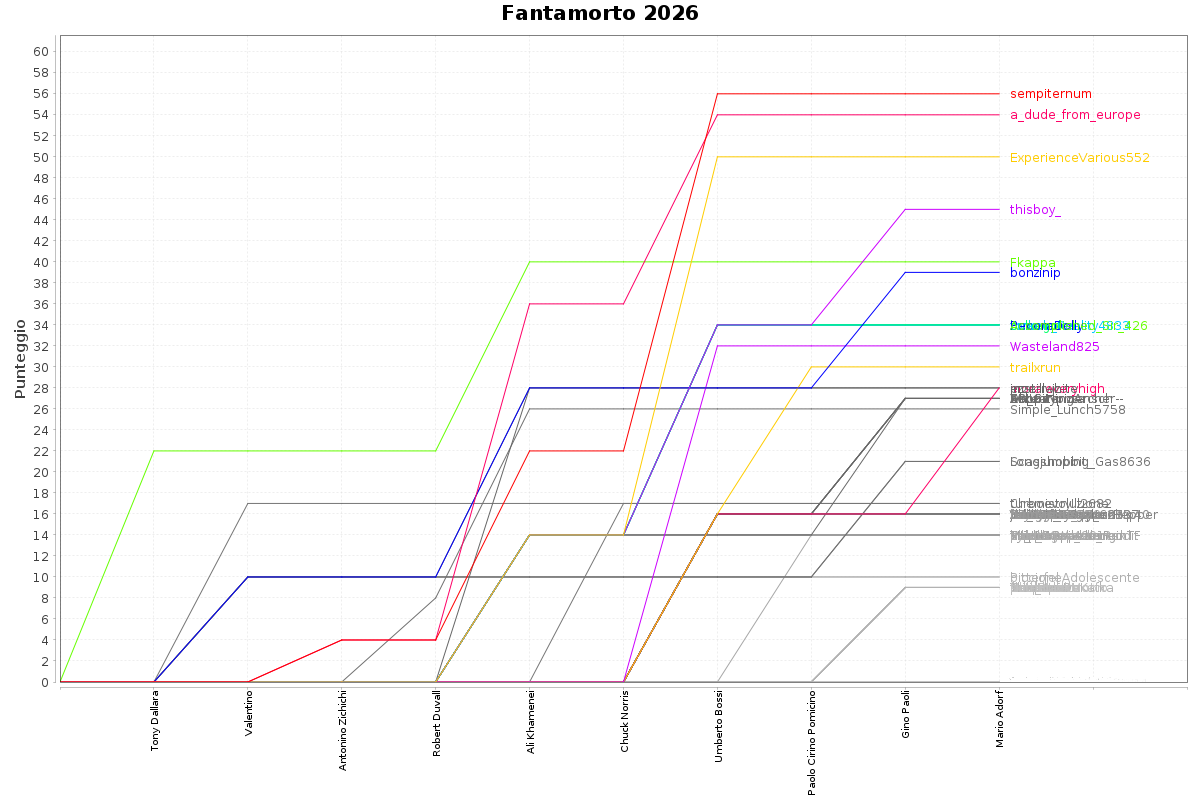
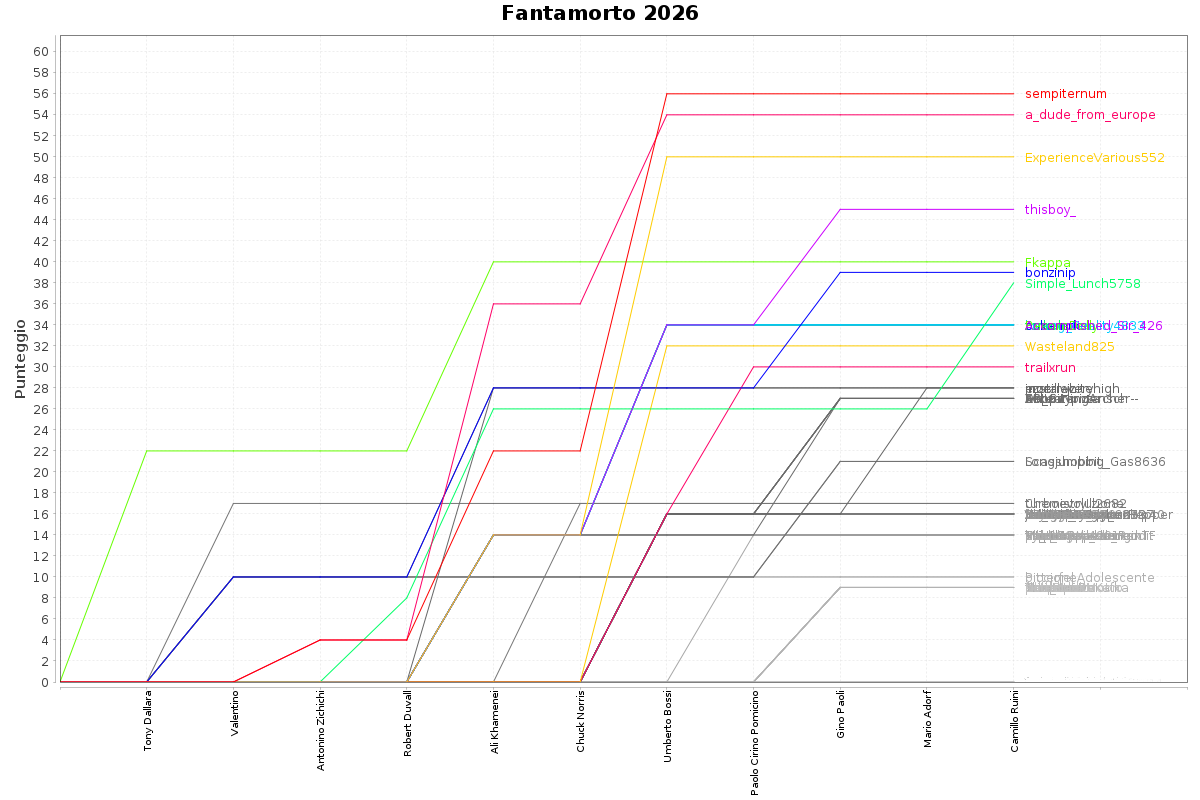
Automatic update

diff --git a/tabellone.html b/tabellone.html
@@ -362,6 +362,61 @@
 </tr>
 
 <tr>
+	<td>Simple_Lunch5758</td>
+	<td>TraPasaran</td>
+	<td>
+	
+	<span class="tooltip"><span class="tooltiptext">
+		
+		&nbsp;+3 - SNIPER (Camillo Ruini)<br/>
+		
+		&nbsp;+5 - MORTO (Camillo Ruini, età: 95)<br/>
+		
+		&nbsp;+3 - SNIPER (Robert Duvall)<br/>
+		
+		&nbsp;+5 - MORTO (Robert Duvall, età: 95)<br/>
+		
+		&nbsp;+14 - MORTO (Ali Khamenei, età: 86)<br/>
+		
+		&nbsp;+4 - GLOBETROTTER (Italia, Stato Imperiale dell&#x27;Iran, Stati Uniti d&#x27;America)<br/>
+		
+		&nbsp;+4 - JACK OF ALL TRADES (attore televisivo, faqih, teologo)<br/>
+		
+	</span>38</span>
+	</td>
+	
+	
+	
+		<td><a href="https://www.wikidata.org/wiki/Q26806">Danny DeVito</a> <span class="gray">81</span></td>	
+	
+		<td><a href="https://www.wikidata.org/wiki/Q505206">Camillo Ruini</a> <span class="gray">95</span>†</td>	
+	
+		<td><a href="https://www.wikidata.org/wiki/Q171736">Robert Duvall</a> <span class="gray">95</span>†</td>	
+	
+		<td><a href="https://www.wikidata.org/wiki/Q57336">Ali Khamenei</a> <span class="gray">86</span>†</td>	
+	
+		<td><a href="https://www.wikidata.org/wiki/Q152843">Joan Collins</a> <span class="gray">93</span></td>	
+	
+		<td><a href="https://www.wikidata.org/wiki/Q95026">Shirley MacLaine</a> <span class="gray">92</span></td>	
+	
+		<td><a href="https://www.wikidata.org/wiki/Q310394">Alan Alda</a> <span class="gray">90</span></td>	
+	
+		<td><a href="https://www.wikidata.org/wiki/Q161819">Julie Andrews</a> <span class="gray">90</span></td>	
+	
+		<td><a href="https://www.wikidata.org/wiki/Q41142">Jane Fonda</a> <span class="gray">88</span></td>	
+	
+		<td><a href="https://www.wikidata.org/wiki/Q1312821">Renzo Arbore</a> <span class="gray">88</span></td>	
+	
+		<td><a href="https://www.wikidata.org/wiki/Q25014">John Cleese</a> <span class="gray">86</span></td>	
+	
+		<td><a href="https://www.wikidata.org/wiki/Q101081868">Donald Sutherland</a> <span class="gray">76</span></td>	
+	
+	
+		
+	<td>88.42</td>
+</tr>
+
+<tr>
 	<td>Accomplished_Sir_426</td>
 	<td>Buonanima bis</td>
 	<td>
@@ -1174,57 +1229,6 @@
 	
 		
 	<td>94.58</td>
-</tr>
-
-<tr>
-	<td>Simple_Lunch5758</td>
-	<td>TraPasaran</td>
-	<td>
-	
-	<span class="tooltip"><span class="tooltiptext">
-		
-		&nbsp;+3 - SNIPER (Robert Duvall)<br/>
-		
-		&nbsp;+5 - MORTO (Robert Duvall, età: 95)<br/>
-		
-		&nbsp;+14 - MORTO (Ali Khamenei, età: 86)<br/>
-		
-		&nbsp;+2 - GLOBETROTTER (Stato Imperiale dell&#x27;Iran, Stati Uniti d&#x27;America)<br/>
-		
-		&nbsp;+2 - JACK OF ALL TRADES (attore televisivo, faqih)<br/>
-		
-	</span>26</span>
-	</td>
-	
-	
-	
-		<td><a href="https://www.wikidata.org/wiki/Q26806">Danny DeVito</a> <span class="gray">81</span></td>	
-	
-		<td><a href="https://www.wikidata.org/wiki/Q171736">Robert Duvall</a> <span class="gray">95</span>†</td>	
-	
-		<td><a href="https://www.wikidata.org/wiki/Q57336">Ali Khamenei</a> <span class="gray">86</span>†</td>	
-	
-		<td><a href="https://www.wikidata.org/wiki/Q505206">Camillo Ruini</a> <span class="gray">95</span></td>	
-	
-		<td><a href="https://www.wikidata.org/wiki/Q152843">Joan Collins</a> <span class="gray">93</span></td>	
-	
-		<td><a href="https://www.wikidata.org/wiki/Q95026">Shirley MacLaine</a> <span class="gray">92</span></td>	
-	
-		<td><a href="https://www.wikidata.org/wiki/Q310394">Alan Alda</a> <span class="gray">90</span></td>	
-	
-		<td><a href="https://www.wikidata.org/wiki/Q161819">Julie Andrews</a> <span class="gray">90</span></td>	
-	
-		<td><a href="https://www.wikidata.org/wiki/Q41142">Jane Fonda</a> <span class="gray">88</span></td>	
-	
-		<td><a href="https://www.wikidata.org/wiki/Q1312821">Renzo Arbore</a> <span class="gray">88</span></td>	
-	
-		<td><a href="https://www.wikidata.org/wiki/Q25014">John Cleese</a> <span class="gray">86</span></td>	
-	
-		<td><a href="https://www.wikidata.org/wiki/Q101081868">Donald Sutherland</a> <span class="gray">76</span></td>	
-	
-	
-		
-	<td>88.42</td>
 </tr>
 
 <tr>
@@ -6299,7 +6303,7 @@
 <h1>Statistiche</h1>
 <p>Utenti iscritti: <b>163</b></p>
 <p>Atleti in gara: <b>634</b></p>
-<p>Età media atleti: <b>67.83</b></p>
+<p>Età media atleti: <b>67.78</b></p>
 <p>Nazioni rappresentate: <b>72</b></p>
 <p>Occupazioni distinte: <b>142</b></p>
 <p>Generi distinti: <b>6</b></p>
@@ -6420,6 +6424,8 @@
 
 <li>Mario Adorf - 2026-04-08 (95)</li>
 
+<li>Camillo Ruini - 2026-06-16 (95)</li>
+
 </ul>
 
 <p>Unicit&agrave; squadre:<br/><small>(punteggio indicante quanto una squadra usa atleti poco o per nulla presenti in altre squadre)</small></p>
@@ -6469,7 +6475,7 @@
 
 
 <br/>
-<small>Bot uptime: 39d 17h 52m 21s</small><br/>
-<small>Aggiornato: 2026-06-17 00:53:20</small>
+<small>Bot uptime: 40d 2h 6m 40s</small><br/>
+<small>Aggiornato: 2026-06-17 09:07:39</small>
 </body>
 </html>

diff --git a/tabellone2026.html b/tabellone2026.html
@@ -362,6 +362,61 @@
 </tr>
 
 <tr>
+	<td>Simple_Lunch5758</td>
+	<td>TraPasaran</td>
+	<td>
+	
+	<span class="tooltip"><span class="tooltiptext">
+		
+		&nbsp;+3 - SNIPER (Camillo Ruini)<br/>
+		
+		&nbsp;+5 - MORTO (Camillo Ruini, età: 95)<br/>
+		
+		&nbsp;+3 - SNIPER (Robert Duvall)<br/>
+		
+		&nbsp;+5 - MORTO (Robert Duvall, età: 95)<br/>
+		
+		&nbsp;+14 - MORTO (Ali Khamenei, età: 86)<br/>
+		
+		&nbsp;+4 - GLOBETROTTER (Italia, Stato Imperiale dell&#x27;Iran, Stati Uniti d&#x27;America)<br/>
+		
+		&nbsp;+4 - JACK OF ALL TRADES (attore televisivo, faqih, teologo)<br/>
+		
+	</span>38</span>
+	</td>
+	
+	
+	
+		<td><a href="https://www.wikidata.org/wiki/Q26806">Danny DeVito</a> <span class="gray">81</span></td>	
+	
+		<td><a href="https://www.wikidata.org/wiki/Q505206">Camillo Ruini</a> <span class="gray">95</span>†</td>	
+	
+		<td><a href="https://www.wikidata.org/wiki/Q171736">Robert Duvall</a> <span class="gray">95</span>†</td>	
+	
+		<td><a href="https://www.wikidata.org/wiki/Q57336">Ali Khamenei</a> <span class="gray">86</span>†</td>	
+	
+		<td><a href="https://www.wikidata.org/wiki/Q152843">Joan Collins</a> <span class="gray">93</span></td>	
+	
+		<td><a href="https://www.wikidata.org/wiki/Q95026">Shirley MacLaine</a> <span class="gray">92</span></td>	
+	
+		<td><a href="https://www.wikidata.org/wiki/Q310394">Alan Alda</a> <span class="gray">90</span></td>	
+	
+		<td><a href="https://www.wikidata.org/wiki/Q161819">Julie Andrews</a> <span class="gray">90</span></td>	
+	
+		<td><a href="https://www.wikidata.org/wiki/Q41142">Jane Fonda</a> <span class="gray">88</span></td>	
+	
+		<td><a href="https://www.wikidata.org/wiki/Q1312821">Renzo Arbore</a> <span class="gray">88</span></td>	
+	
+		<td><a href="https://www.wikidata.org/wiki/Q25014">John Cleese</a> <span class="gray">86</span></td>	
+	
+		<td><a href="https://www.wikidata.org/wiki/Q101081868">Donald Sutherland</a> <span class="gray">76</span></td>	
+	
+	
+		
+	<td>88.42</td>
+</tr>
+
+<tr>
 	<td>Accomplished_Sir_426</td>
 	<td>Buonanima bis</td>
 	<td>
@@ -1174,57 +1229,6 @@
 	
 		
 	<td>94.58</td>
-</tr>
-
-<tr>
-	<td>Simple_Lunch5758</td>
-	<td>TraPasaran</td>
-	<td>
-	
-	<span class="tooltip"><span class="tooltiptext">
-		
-		&nbsp;+3 - SNIPER (Robert Duvall)<br/>
-		
-		&nbsp;+5 - MORTO (Robert Duvall, età: 95)<br/>
-		
-		&nbsp;+14 - MORTO (Ali Khamenei, età: 86)<br/>
-		
-		&nbsp;+2 - GLOBETROTTER (Stato Imperiale dell&#x27;Iran, Stati Uniti d&#x27;America)<br/>
-		
-		&nbsp;+2 - JACK OF ALL TRADES (attore televisivo, faqih)<br/>
-		
-	</span>26</span>
-	</td>
-	
-	
-	
-		<td><a href="https://www.wikidata.org/wiki/Q26806">Danny DeVito</a> <span class="gray">81</span></td>	
-	
-		<td><a href="https://www.wikidata.org/wiki/Q171736">Robert Duvall</a> <span class="gray">95</span>†</td>	
-	
-		<td><a href="https://www.wikidata.org/wiki/Q57336">Ali Khamenei</a> <span class="gray">86</span>†</td>	
-	
-		<td><a href="https://www.wikidata.org/wiki/Q505206">Camillo Ruini</a> <span class="gray">95</span></td>	
-	
-		<td><a href="https://www.wikidata.org/wiki/Q152843">Joan Collins</a> <span class="gray">93</span></td>	
-	
-		<td><a href="https://www.wikidata.org/wiki/Q95026">Shirley MacLaine</a> <span class="gray">92</span></td>	
-	
-		<td><a href="https://www.wikidata.org/wiki/Q310394">Alan Alda</a> <span class="gray">90</span></td>	
-	
-		<td><a href="https://www.wikidata.org/wiki/Q161819">Julie Andrews</a> <span class="gray">90</span></td>	
-	
-		<td><a href="https://www.wikidata.org/wiki/Q41142">Jane Fonda</a> <span class="gray">88</span></td>	
-	
-		<td><a href="https://www.wikidata.org/wiki/Q1312821">Renzo Arbore</a> <span class="gray">88</span></td>	
-	
-		<td><a href="https://www.wikidata.org/wiki/Q25014">John Cleese</a> <span class="gray">86</span></td>	
-	
-		<td><a href="https://www.wikidata.org/wiki/Q101081868">Donald Sutherland</a> <span class="gray">76</span></td>	
-	
-	
-		
-	<td>88.42</td>
 </tr>
 
 <tr>
@@ -6299,7 +6303,7 @@
 <h1>Statistiche</h1>
 <p>Utenti iscritti: <b>163</b></p>
 <p>Atleti in gara: <b>634</b></p>
-<p>Età media atleti: <b>67.83</b></p>
+<p>Età media atleti: <b>67.78</b></p>
 <p>Nazioni rappresentate: <b>72</b></p>
 <p>Occupazioni distinte: <b>142</b></p>
 <p>Generi distinti: <b>6</b></p>
@@ -6420,6 +6424,8 @@
 
 <li>Mario Adorf - 2026-04-08 (95)</li>
 
+<li>Camillo Ruini - 2026-06-16 (95)</li>
+
 </ul>
 
 <p>Unicit&agrave; squadre:<br/><small>(punteggio indicante quanto una squadra usa atleti poco o per nulla presenti in altre squadre)</small></p>
@@ -6469,7 +6475,7 @@
 
 
 <br/>
-<small>Bot uptime: 39d 17h 52m 21s</small><br/>
-<small>Aggiornato: 2026-06-17 00:53:20</small>
+<small>Bot uptime: 40d 2h 6m 40s</small><br/>
+<small>Aggiornato: 2026-06-17 09:07:39</small>
 </body>
 </html>